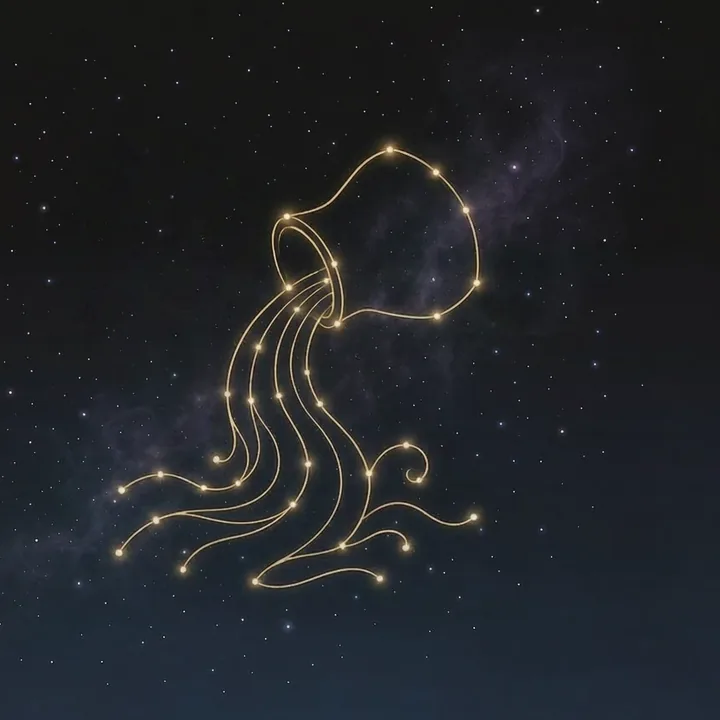
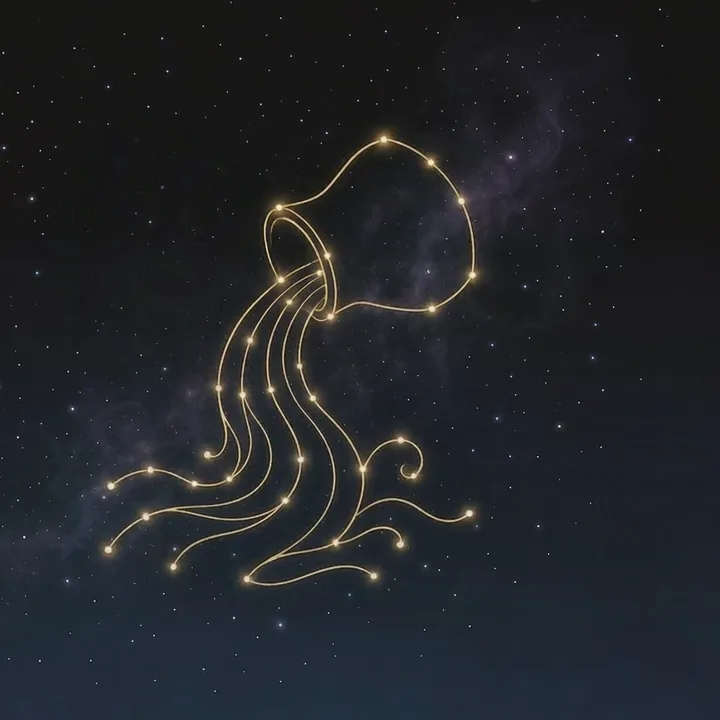
星座图二次精裁：主体严格居中

Changed region(s): [[0.1222, 0.1528, 0.6722, 0.825], [0.5806, 0.7028, 0.6722, 0.7333], [0.7028, 0.2139, 0.7333, 0.2444]]

diff --git a/scripts/reprocess_zodiac2.py b/scripts/reprocess_zodiac2.py
@@ -1,0 +1,74 @@
+# -*- coding: utf-8 -*-
+"""星座图二次精裁（跑完可删）：
+- zd_art_* 13 张：只认金色/白色亮线主体（高阈值+连通域过滤星点），居中紧裁，去右下角水印
+- zd_galaxy_* 2 张：满幅裁掉水印带后居中方裁
+- zd_today_card：缩 750x422
+输出 720x720 webp q82，覆盖原文件名。
+"""
+import os
+import cv2
+import numpy as np
+from PIL import Image
+
+ROOT = os.path.normpath(os.path.join(os.path.dirname(os.path.abspath(__file__)), '..', 'assets', 'zodiac'))
+AVAIL = 0.92          # 水印安全线（y 方向可用比例）
+OUT = 720
+
+
+def bright_bbox(path):
+    img = cv2.imread(path, cv2.IMREAD_COLOR)
+    gray = cv2.cvtColor(img, cv2.COLOR_BGR2GRAY)
+    mean, std = gray.mean(), gray.std()
+    t = max(100, mean + 2.2 * std)
+    _, th = cv2.threshold(gray, t, 255, cv2.THRESH_BINARY)
+    n, lab, stats, cent = cv2.connectedComponentsWithStats(th, 8)
+    H, W = gray.shape
+    boxes = [s for s in stats[1:] if s[4] > 200]          # 过滤星点
+    if not boxes:
+        return None
+    x0 = min(s[0] for s in boxes); y0 = min(s[1] for s in boxes)
+    x1 = max(s[0] + s[2] for s in boxes); y1 = max(s[1] + s[3] for s in boxes)
+    return (x0, y0, x1, y1)
+
+
+def square_crop_centered(im, cx, cy, side, W, H):
+    avail_h = int(H * AVAIL)
+    side = min(side, avail_h, W)
+    left = int(min(max(0, cx - side / 2), W - side))
+    top = int(min(max(0, cy - side / 2), avail_h - side))
+    return im.crop((left, top, left + side, top + side))
+
+
+done = []
+for fn in sorted(os.listdir(ROOT)):
+    if not fn.endswith('.webp'):
+        continue
+    p = os.path.join(ROOT, fn)
+    im = Image.open(p).convert('RGB')
+    W, H = im.size
+    if fn.startswith('zd_art_'):
+        bb = bright_bbox(p)
+        if bb:
+            x0, y0, x1, y1 = bb
+            mw, mh = int((x1 - x0) * 0.10), int((y1 - y0) * 0.10)
+            x0, y0 = max(0, x0 - mw), max(0, y0 - mh)
+            x1, y1 = min(W, x1 + mw), min(H, y1 + mh)
+            side = max(x1 - x0, y1 - y0)
+            cx, cy = (x0 + x1) / 2, (y0 + y1) / 2
+        else:
+            side, cx, cy = int(W * 0.8), W / 2, H * 0.45
+        im2 = square_crop_centered(im, cx, cy, side, W, H)
+    elif fn.startswith('zd_galaxy_'):
+        side = min(W, int(H * AVAIL))
+        im2 = square_crop_centered(im, W / 2, int(H * AVAIL) / 2, side, W, H)
+    elif fn == 'zd_today_card.webp':
+        im.resize((750, 422), Image.LANCZOS).save(p, 'WEBP', quality=82, method=6)
+        done.append((fn, '750x422'))
+        continue
+    else:
+        continue
+    im2.resize((OUT, OUT), Image.LANCZOS).save(p, 'WEBP', quality=82, method=6)
+    done.append((fn, str(im2.size)))
+
+for d in done:
+    print(' ', d[0], '->', d[1], os.path.getsize(os.path.join(ROOT, d[0])) // 1024, 'KB')
